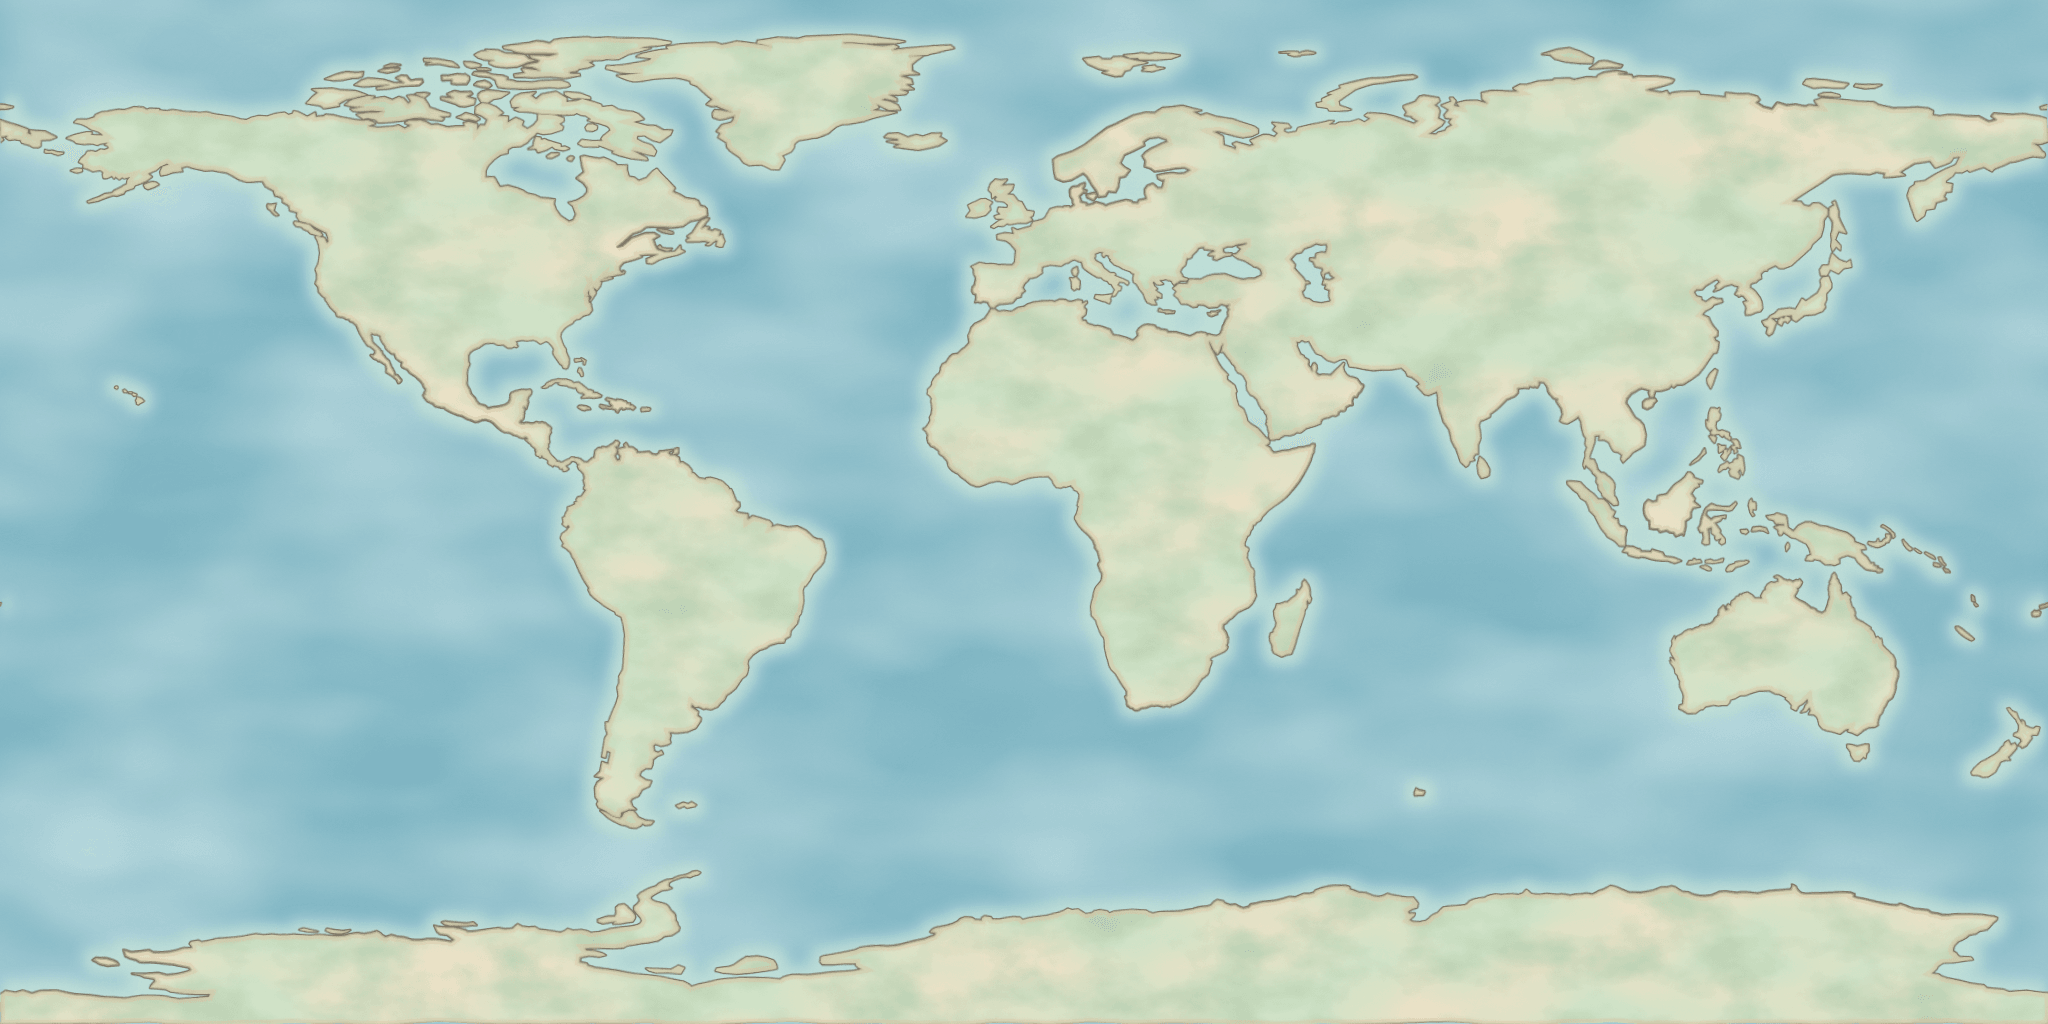
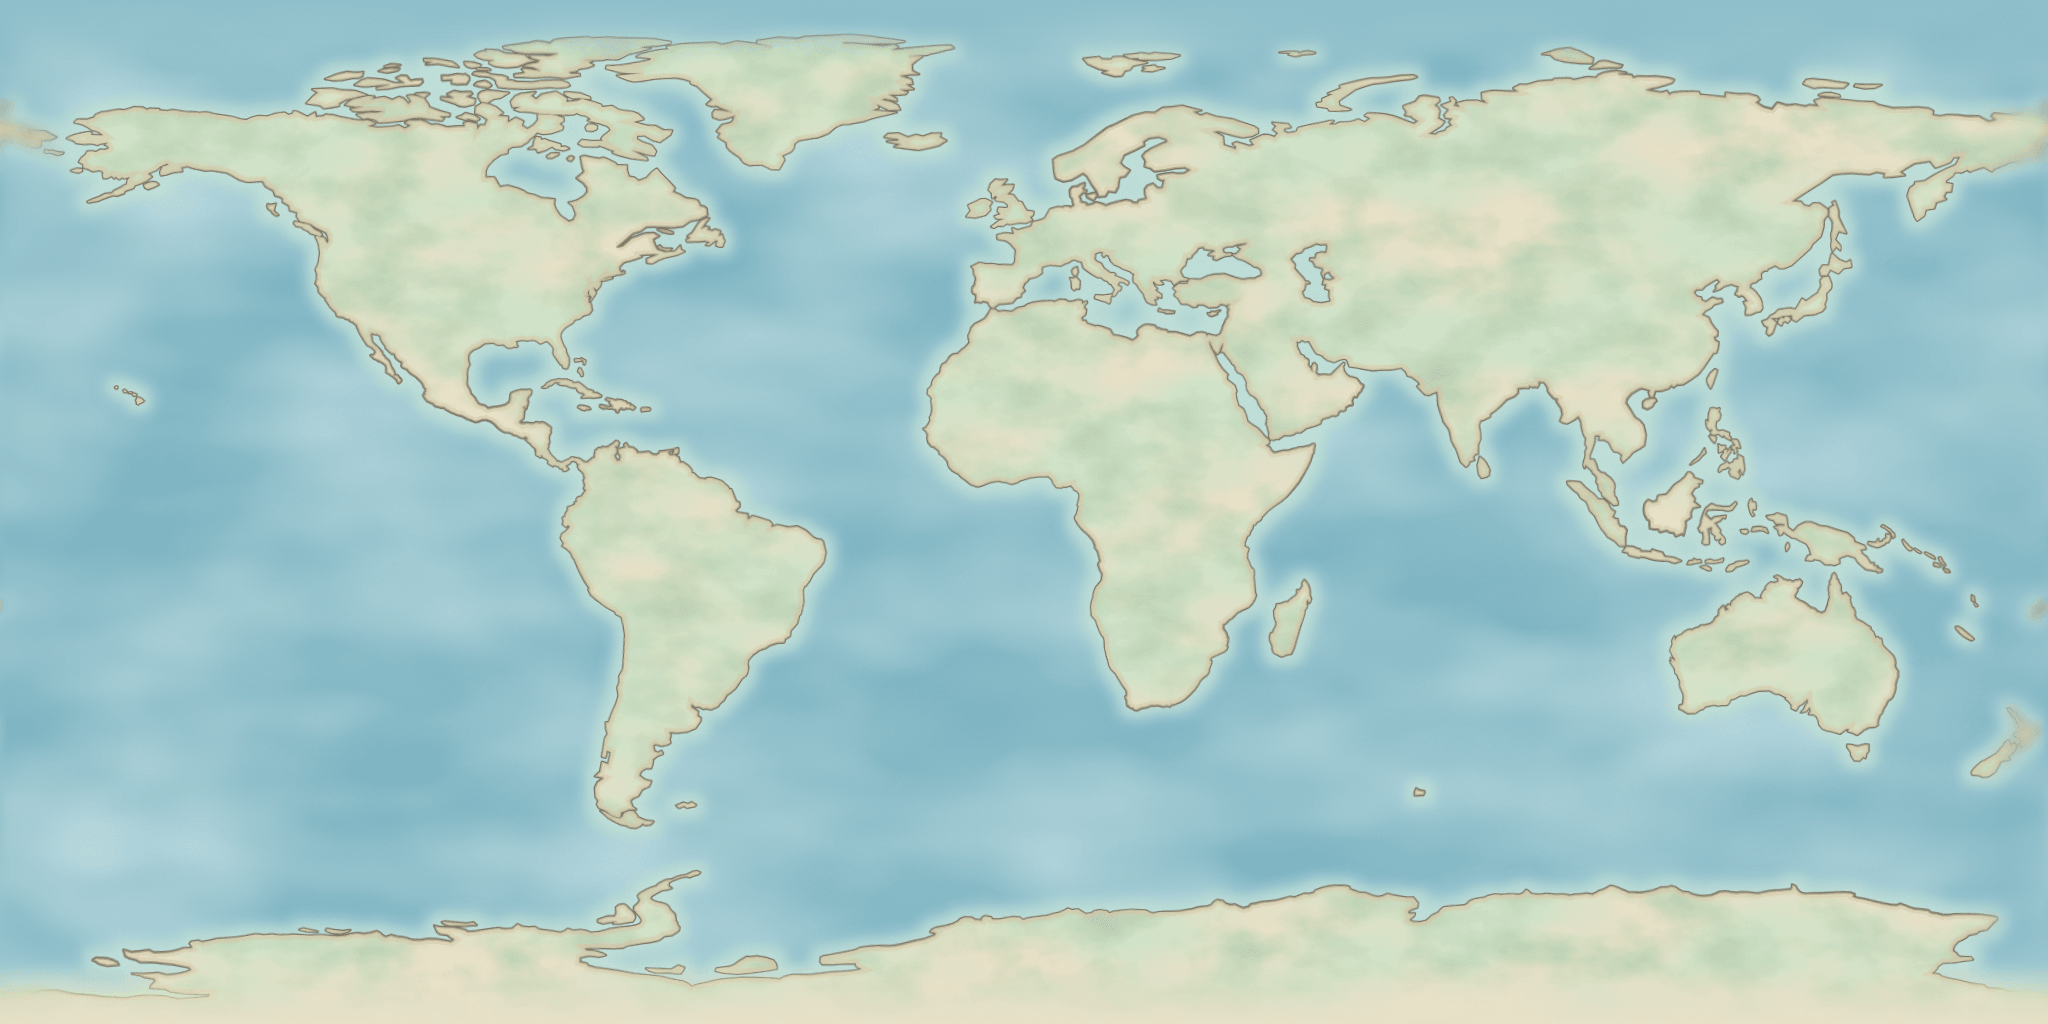
fix: remove texture seam, pole pinwheel, and uneven globe lighting
- Roll-blend seam repair: shift texture half-way, feather-blur across the
  centered seam, shift back — left/right edges now continuous at 180° lng
- Flat-tone pole caps: top/bottom rows fade to a single color so the
  converging columns can't render as a pinwheel
- Single white ambient light replaces ambient+directional pair for even,
  storybook lighting across the whole sphere

diff --git a/src/components/globe/MemoryGlobe.tsx b/src/components/globe/MemoryGlobe.tsx
@@ -2,6 +2,7 @@
 
 import { useCallback, useEffect, useRef, useState } from "react";
 import Globe, { GlobeMethods } from "react-globe.gl";
+import { AmbientLight } from "three";
 import { memories, type Memory } from "@/data/memories";
 import { createPinElement } from "./MemoryPin";
 import MemoryCard from "./MemoryCard";
@@ -100,6 +101,9 @@ export default function MemoryGlobe() {
     const globe = globeRef.current;
     if (!globe) return;
     globe.renderer().setPixelRatio(Math.min(window.devicePixelRatio, 2));
+    // Even, storybook lighting: replace the default ambient + directional pair
+    // (which shades one side of the sphere) with a single white ambient.
+    globe.lights([new AmbientLight(0xffffff, Math.PI)]);
     globe.pointOfView({ lat: 20, lng: 0, altitude: 2.2 }, 0);
 
     const controls = globe.controls();